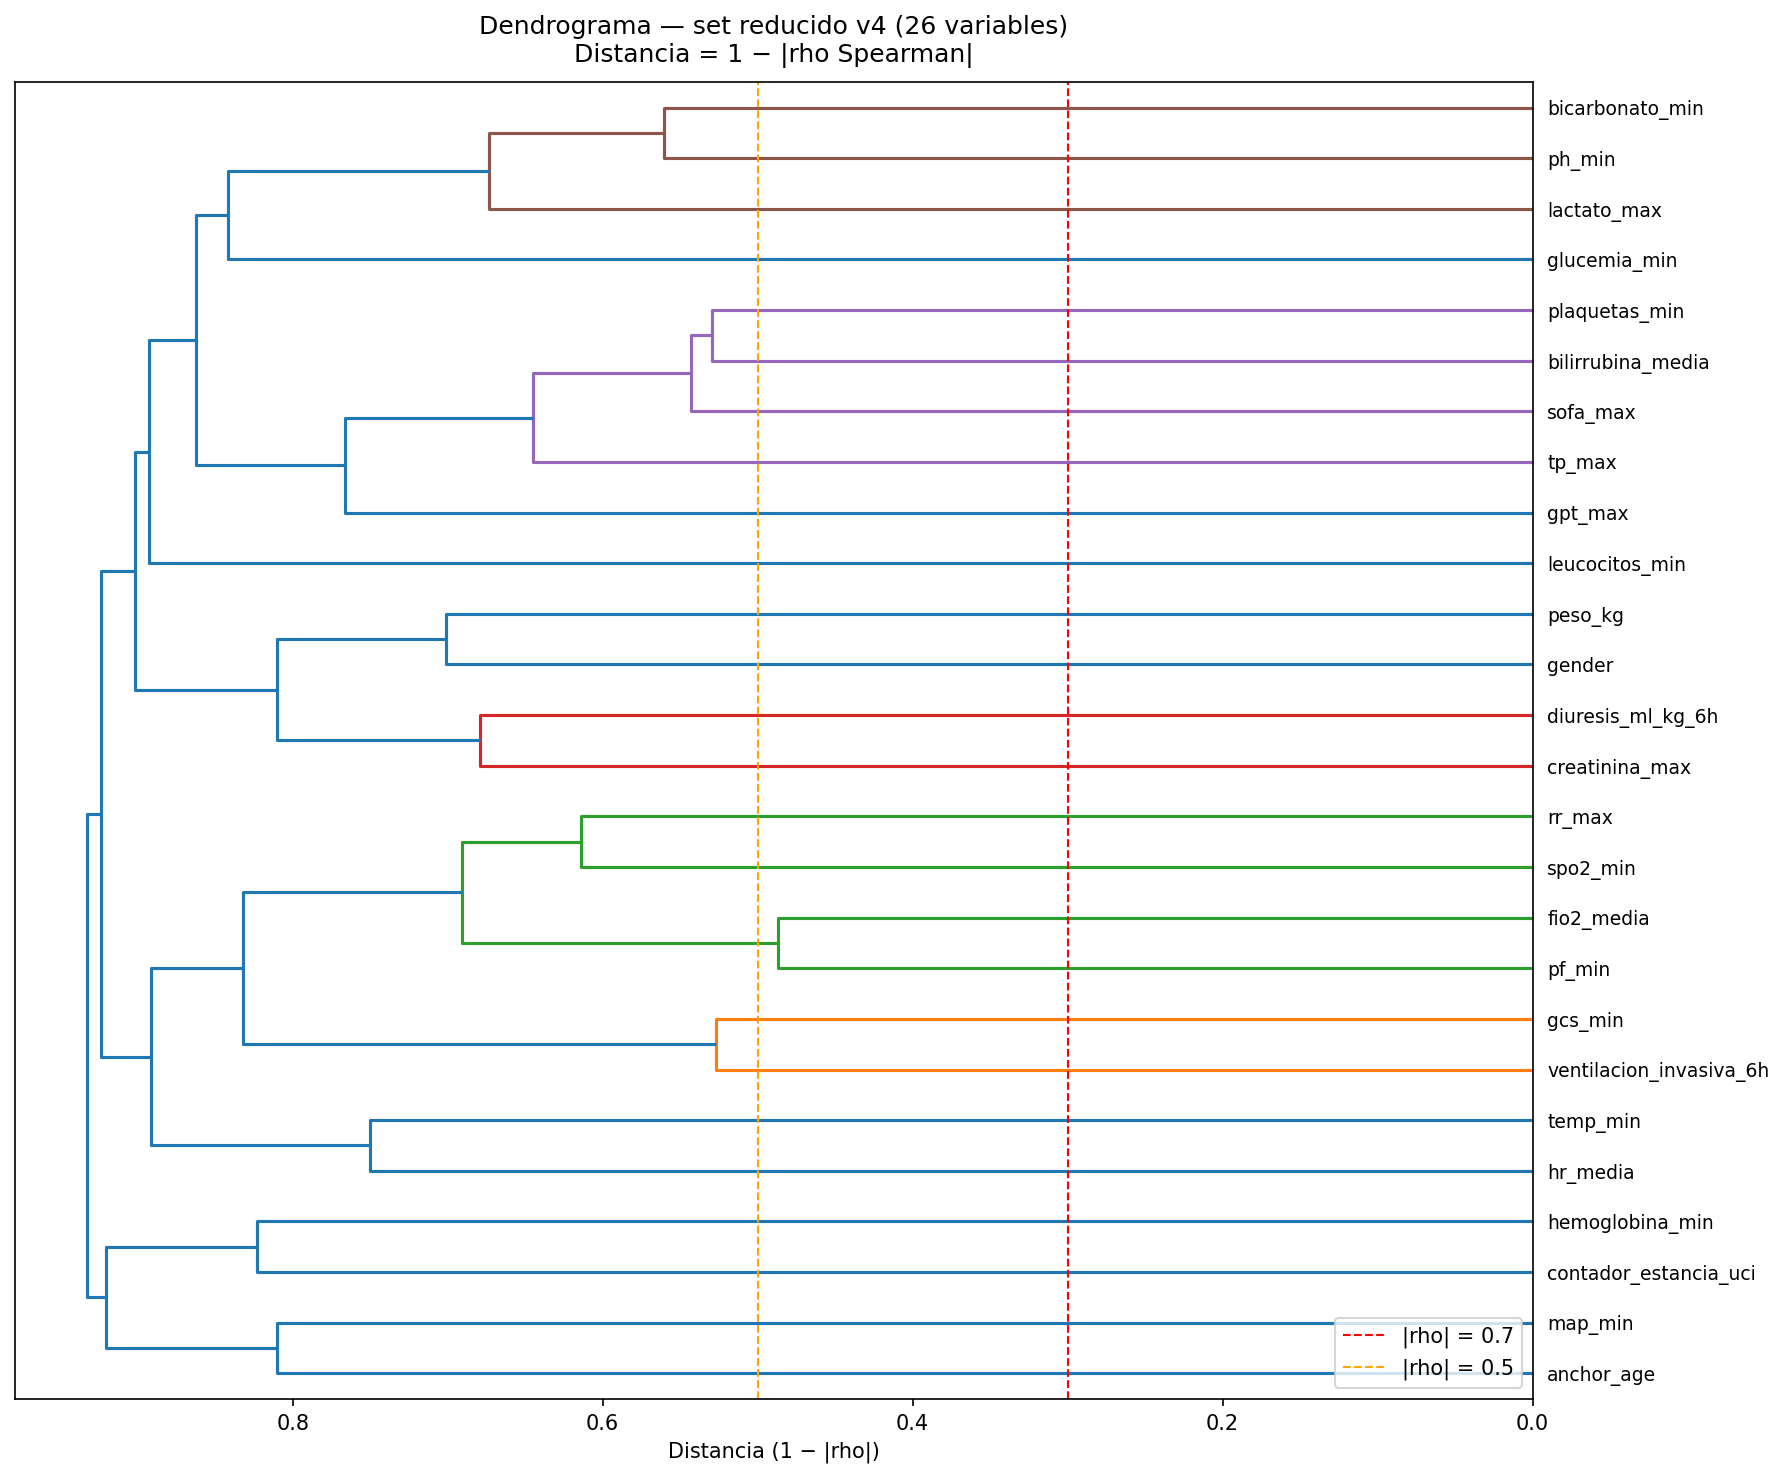
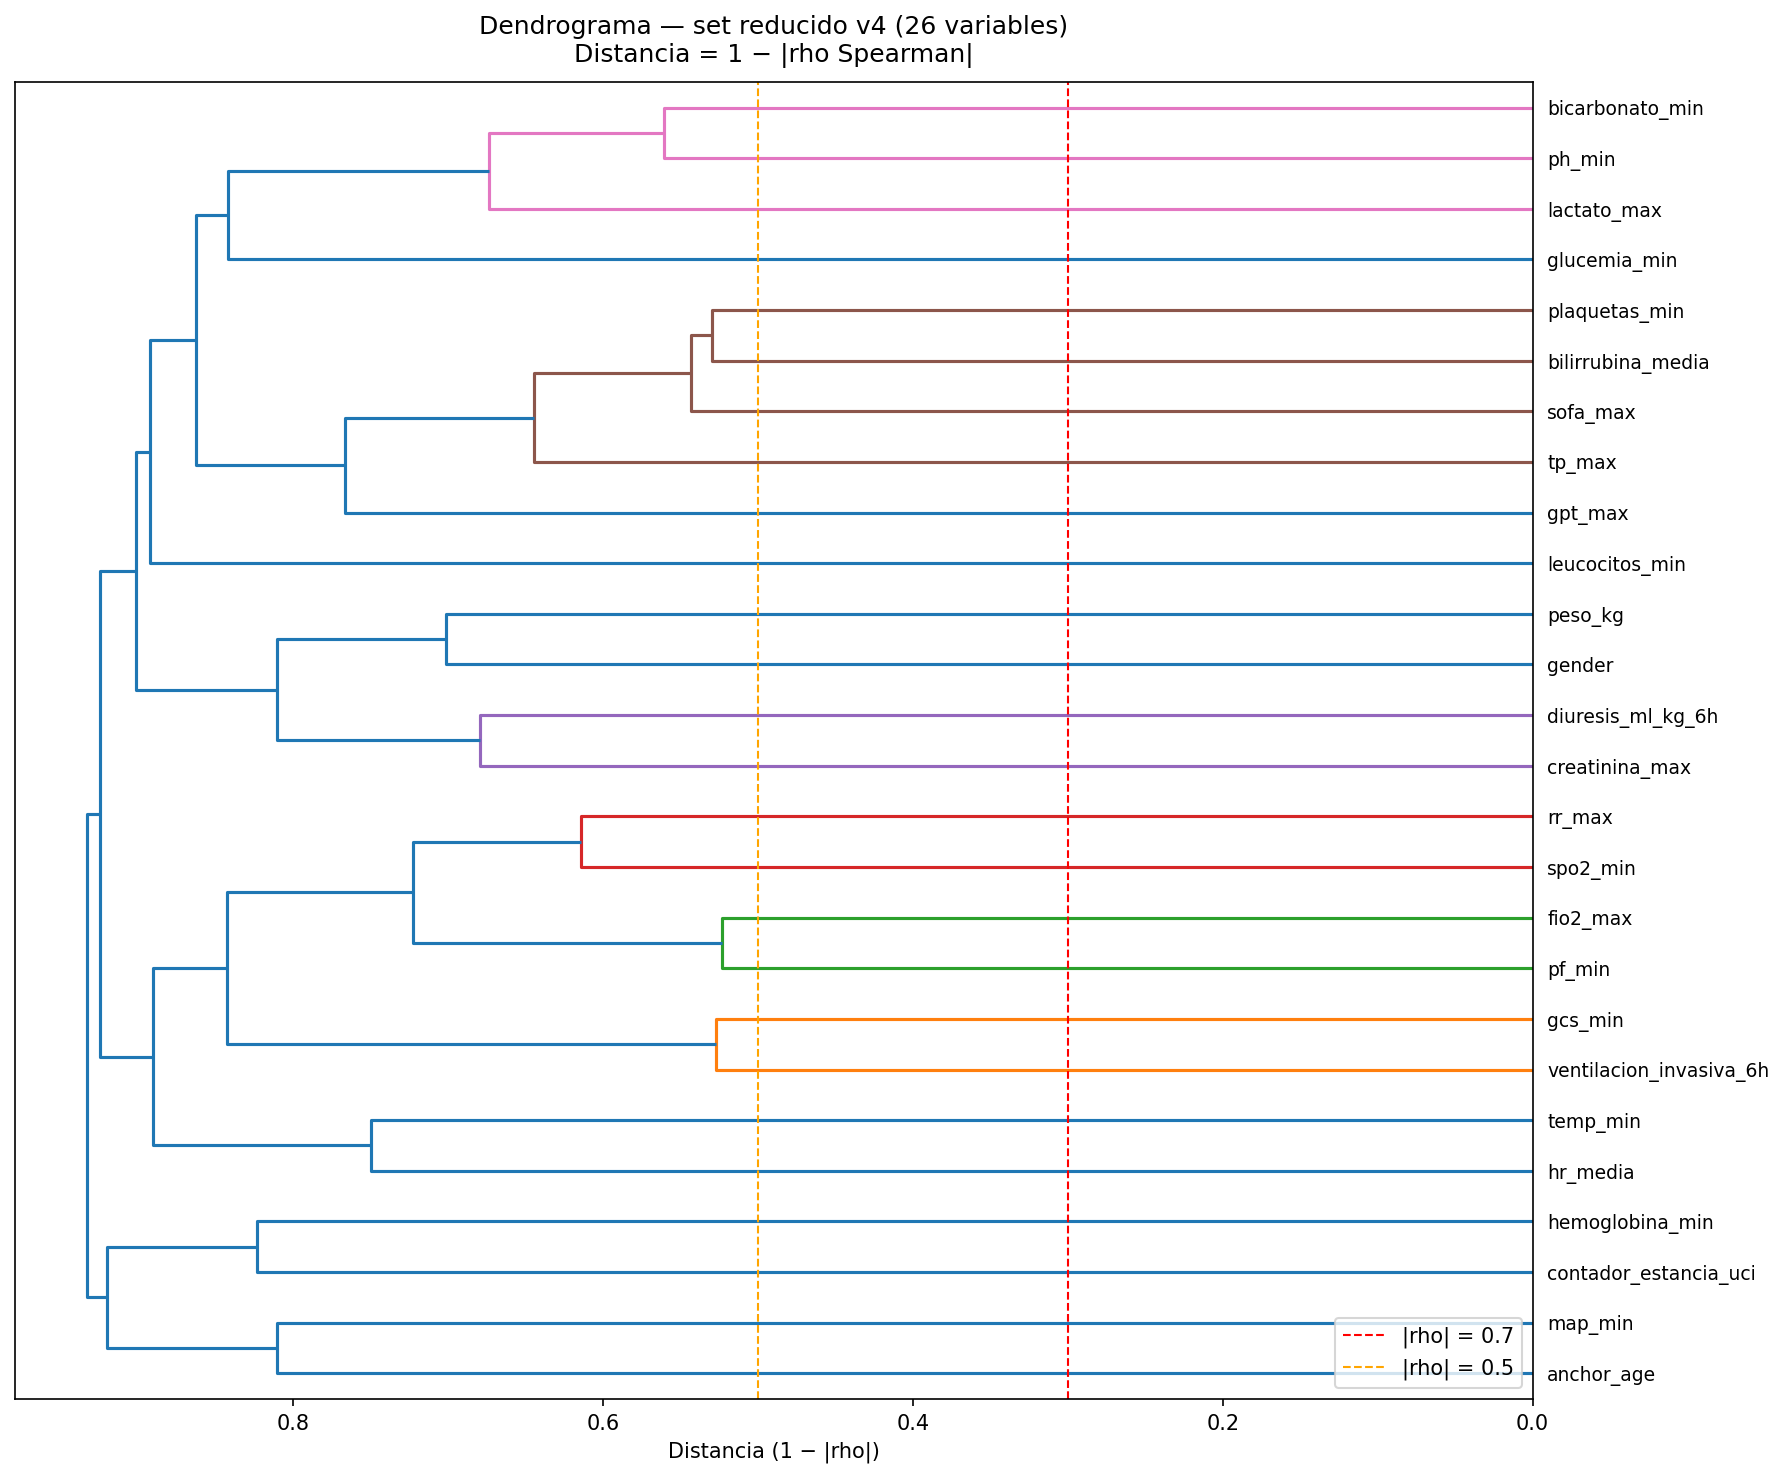
corrección a dos corrimientos de antes

diff --git a/Pruebas_v4_2/baseline_v4_2_grupos.py b/Pruebas_v4_2/baseline_v4_2_grupos.py
@@ -61,7 +61,7 @@ variables_predictoras = [
     # Respiratorio (4)
     'pf_min',
     'spo2_min',
-    'fio2_media',
+    'fio2_max',
     'rr_max',
 
     # Ventilación y conciencia (2)
@@ -79,14 +79,14 @@ variables_predictoras = [
 
     # Hepático (2)
     'bilirrubina_media',
-    'gpt_max',             
+    'gpt_max',              
 
     # Coagulación (2)
     'tp_max',
     'plaquetas_min',
 
     # Hematología/inflamación (2)
-    'leucocitos_min',      
+    'leucocitos_min',       
     'hemoglobina_min',
 
     # Metabólico (1)
@@ -126,7 +126,7 @@ def preparar_subgrupo(df, nombre_subgrupo):
     else:
         raise ValueError(f"Subgrupo no reconocido: {nombre_subgrupo}")
 
-    predictores = df_sub[VARIABLES_PREDICTORAS].copy()
+    predictores = df_sub[variables_predictoras].copy()
     predictores['gender'] = (predictores['gender'] == 'M').astype(int)
 
     etiqueta = df_sub[ETIQUETA].copy()
@@ -363,7 +363,7 @@ def evaluar_subgrupo(df, nombre_subgrupo):
 def main():
     print("=" * 70)
     print("BASELINE v4 REDUCIDO — POR SUBGRUPOS DE SEPSIS")
-    print(f"Variables: {len(VARIABLES_PREDICTORAS)} (set reducido sin tiene_sepsis)")
+    print(f"Variables: {len(variables_predictoras)} (set reducido sin tiene_sepsis)")
     print("=" * 70)
 
     df = cargar_datos()

diff --git a/Pruebas_v4_2/baseline_v4_2.py b/Pruebas_v4_2/baseline_v4_2.py
@@ -59,7 +59,7 @@ def preparar(df):
     # Respiratorio (4)
     'pf_min',
     'spo2_min',
-    'fio2_media',
+    'fio2_max',
     'rr_max',
 
     # Ventilación y conciencia (2)

diff --git a/Pruebas_v4_2/correlaciones_v4_2.py b/Pruebas_v4_2/correlaciones_v4_2.py
@@ -96,7 +96,7 @@ variables_predictoras = [
     # Respiratorio (4)
     'pf_min',
     'spo2_min',
-    'fio2_media',
+    'fio2_max',
     'rr_max',
 
     # Ventilación y conciencia (2)